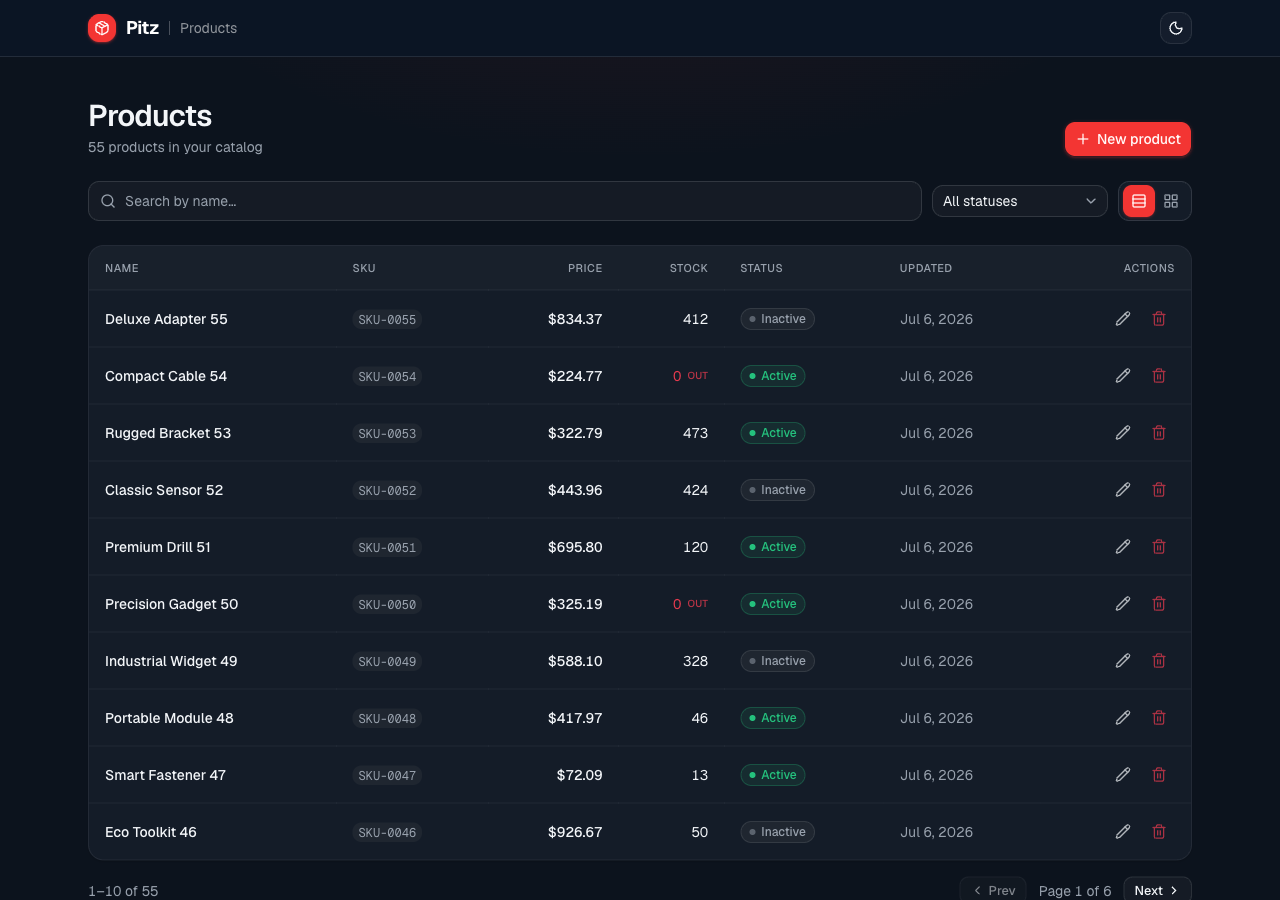
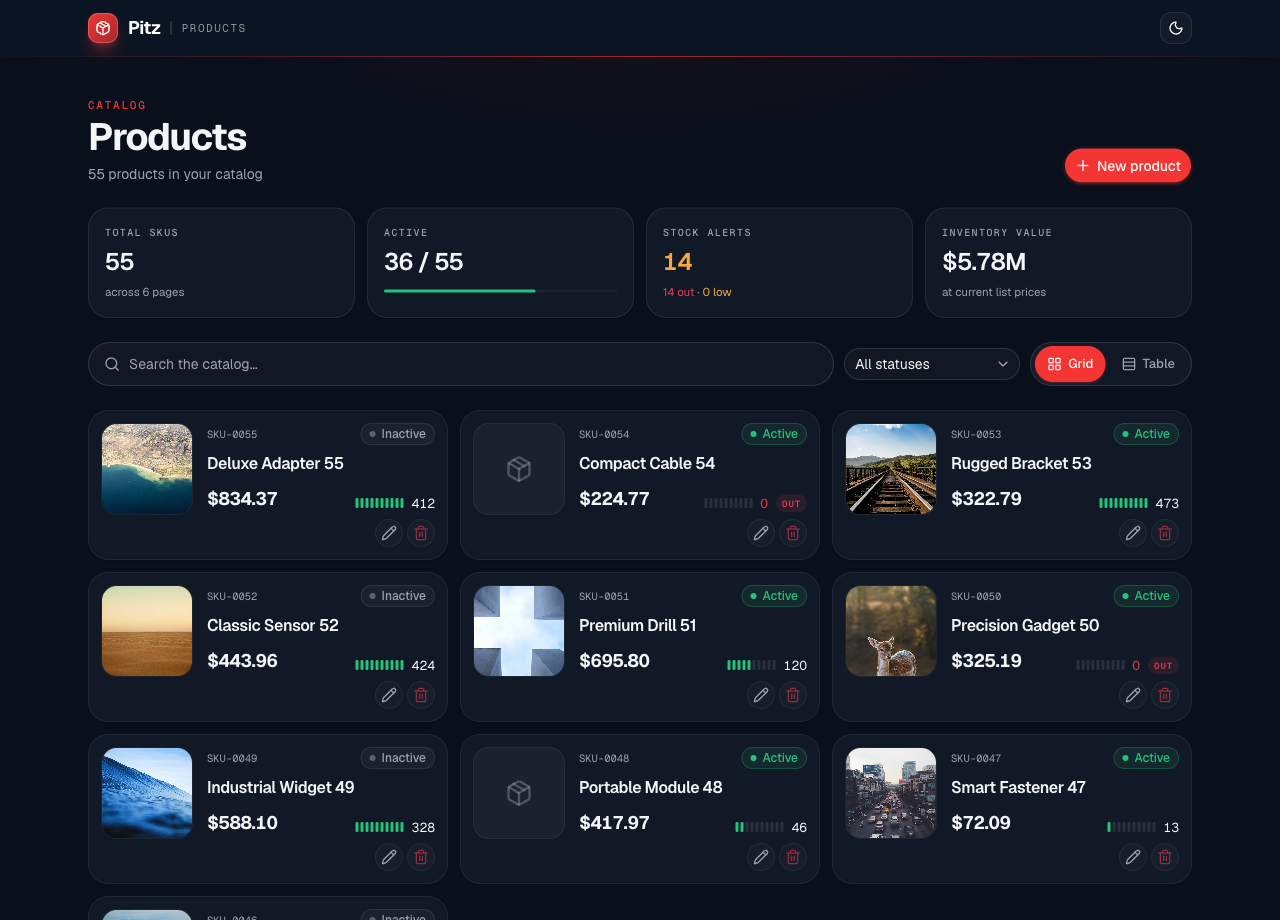
docs: refresh README for Obsidian v2 — images, metrics, quick view
New live screenshots (catalog grid with imagery + metrics, quick-view modal), bump frontend tests to 45, document product images / metrics / quick-view / stock-meter in the feature list, and add a technical-decisions note on local image storage + its ephemerality trade-off.

diff --git a/README.md b/README.md
@@ -7,11 +7,11 @@ A full-stack **product management (CRUD)** application built for the PITZ techni
 > **🔗 Live demo:** **[pitz-products-web.onrender.com](https://pitz-products-web.onrender.com)** — API health at [`/up`](https://pitz-products-api.onrender.com/up) · Swagger docs at [`/api-docs`](https://pitz-products-api.onrender.com/api-docs).
 > _Hosted on Render's free tier, so the first request after a period of inactivity can take ~30s to wake the service._
 
-![Pitz Products — table view, dark](docs/screenshots/product-list.png)
+![Pitz Products — catalog grid, dark](docs/screenshots/product-list.png)
 
-> Table ⇄ card-grid views, light + dark themes on the Pitz brand palette (red on navy). Design rationale + tokens: **[design system handoff](docs/DESIGN.md)**.
+> Product imagery (uploaded to a local folder), catalog metrics, a tick-meter stock indicator, a quick-view modal, table ⇄ card-grid views, and light/dark themes on the Pitz brand palette (red on navy). Design tokens + rationale: **[design system](docs/DESIGN.md)**.
 
-![Pitz Products — card-grid view, dark](docs/screenshots/product-grid.png)
+![Pitz Products — quick-view modal, dark](docs/screenshots/product-quickview.png)
 
 ---
 
@@ -161,10 +161,11 @@ Base path: `/api/v1`. Envelope: successful reads/writes return `{ "data": ... }`
 - **Consistent error envelope.** A single `rescue_from` ladder maps every failure (404 / 422 / 500) to `{ error: { status, code, message, details } }`, so the frontend maps field errors uniformly. The 500 handler never leaks a backtrace.
 - **Data integrity in depth.** App-level validations are backed by DB constraints: a functional unique index on `LOWER(sku)` (race-safe), `pg_trgm` GIN index for `ILIKE` search, and `price > 0` / `stock >= 0` check constraints.
 - **A multi-agent adversarial review** of the generated backend caught and fixed 7 real issues before tests were written (garbage filter values silently filtering to active-only, a deep-offset pagination DoS, a 500 on oversized prices, CORS failing open, unstable ordering) — see the git history.
+- **Local image storage (v1).** Uploads are written to `backend/public/uploads/` (validated: JPG/PNG/WEBP, ≤5 MB, generated filename) and served statically; `image_url` stores the `/uploads/…` path. Dependency-free for the demo — the trade-off is that runtime uploads are ephemeral on Render's free tier (committed seed images persist). Production would swap a cloud object store (S3 / ActiveStorage) behind the same `image_url` field.
 
 ## Bonus features implemented
 
-- ✅ **React Query** for server state · ✅ **Frontend tests** (41, Vitest + RTL + MSW) · ✅ **Env-driven config**
+- ✅ **React Query** for server state · ✅ **Frontend tests** (45, Vitest + RTL + MSW) · ✅ **Env-driven config**
 - ✅ **CI** — GitHub Actions runs RuboCop + RSpec and TypeScript + lint + Vitest + build on every push
 - ✅ **Render deploy** (`render.yaml` Blueprint: Postgres + API + static site) · ✅ **Docker** (`docker compose up`)
 - ✅ **OpenAPI/Swagger** docs at `/api-docs` (rswag, generated from the request specs)
@@ -172,6 +173,7 @@ Base path: `/api/v1`. Envelope: successful reads/writes return `{ "data": ... }`
 - ✅ **Optimistic delete** with rollback · ✅ **URL-synced filters** (shareable, survives refresh)
 - ✅ **VS Code full-stack debugger** (`.vscode/` — Rails `rdbg` + Chrome, one launcher)
 - ✅ **Pitz-branded design system** — red-on-navy, light + dark themes ([handoff](docs/DESIGN.md)) · ✅ **Table ⇄ card-grid views** (remembered per user)
+- ✅ **Product images** — browse/drag-drop upload to a local folder (`POST /uploads`, validated) + a no-media fallback everywhere · ✅ **Catalog metrics** (`/products/stats`) · ✅ **Quick-view modal** + tick-meter stock health
 
 ## Deploy (Render)
 